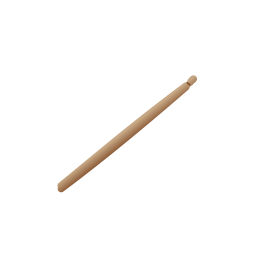
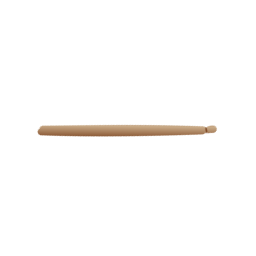
Straightened DrumStick.png

Changed region(s): [[0.125, 0.2812, 0.8438, 0.75]]

diff --git a/main.py b/main.py
@@ -118,6 +118,8 @@ def main() -> None:
 
         for i in range(sub_steps):
             space.step(1 / FPS / sub_steps) # update physics simulation
+            
+        self.player_hits
 
     pygame.quit()
 
